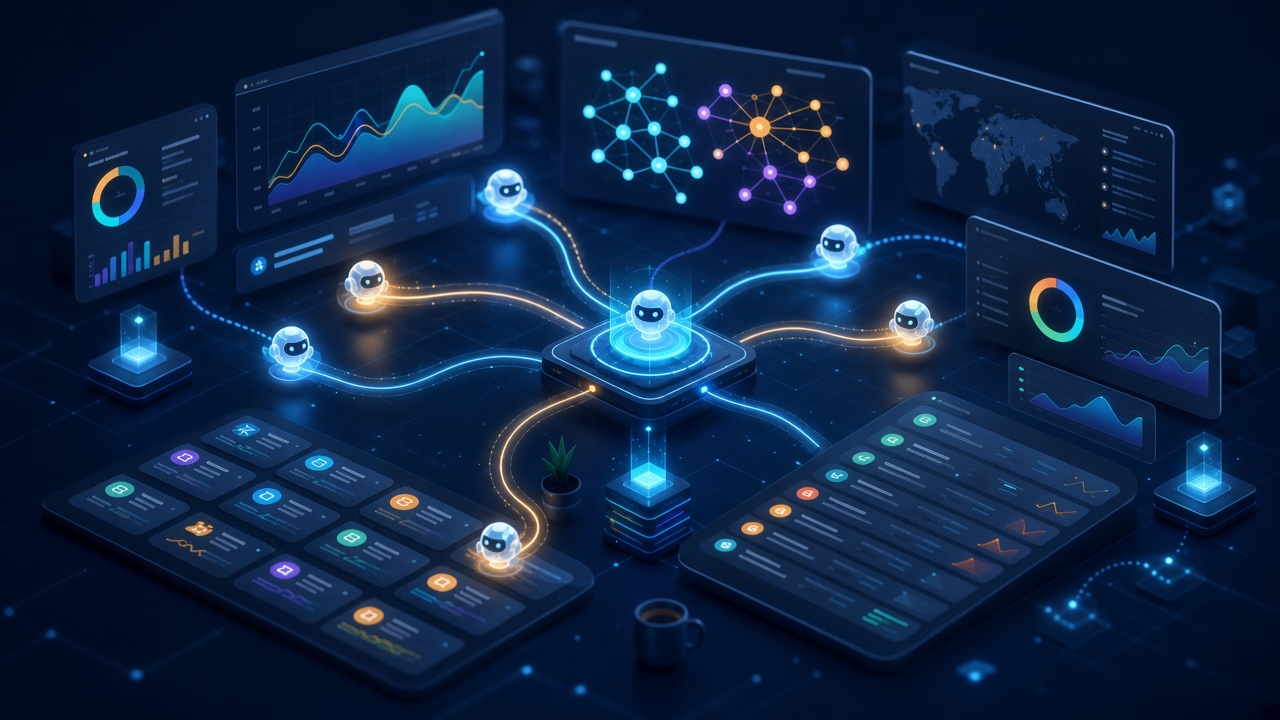
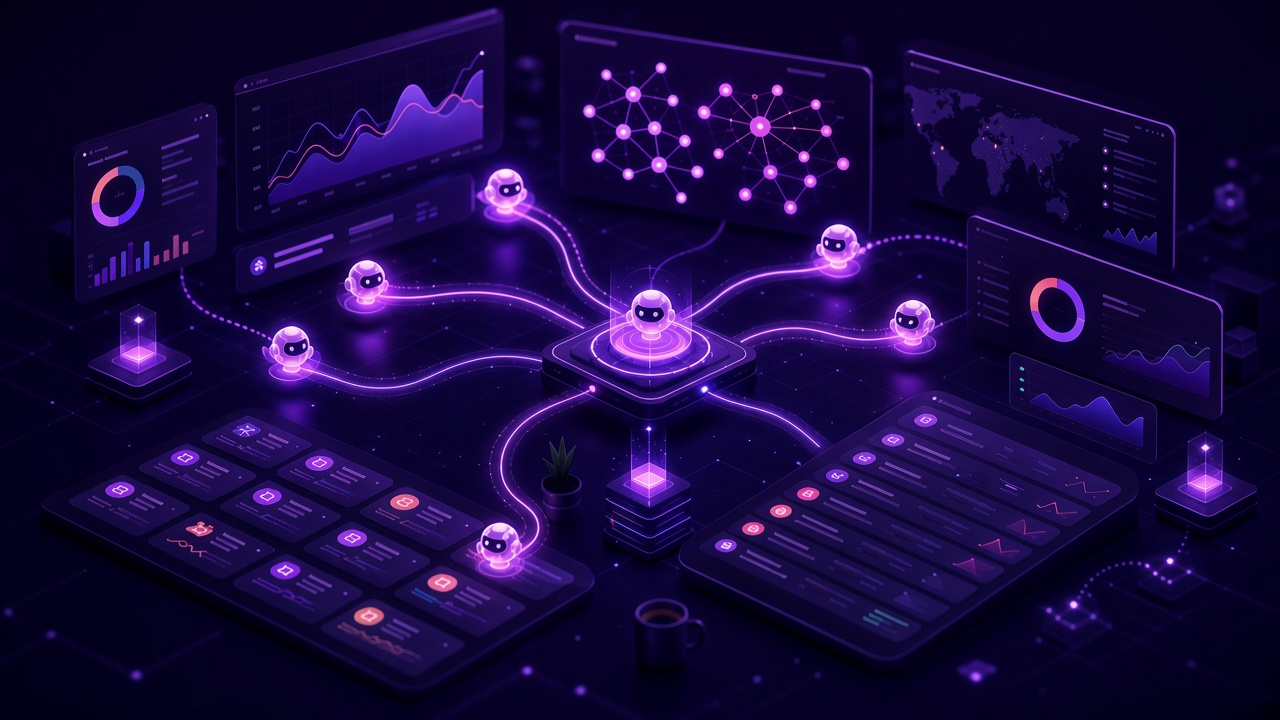
color corrected

diff --git a/index.html b/index.html
@@ -234,8 +234,8 @@
 </div>
 <!-- Right hero illustration: compact, framed, aligned to the right -->
 <div class="lg:col-span-6 flex justify-center lg:justify-end lg:self-start lg:-mt-4">
-<figure class="w-full max-w-[540px] sm:max-w-[580px] lg:max-w-none ml-auto rounded-2xl overflow-hidden border border-white/10 bg-[#0b1020] shadow-[0_18px_50px_-24px_rgba(8,12,28,0.9)]">
-<img alt="Isometric AI command center with a central robot hub linked to orbiting agents and glowing analytics panels" class="w-full h-auto block" src="assets/hero-ai-command-center.jpg"/>
+<figure class="w-full max-w-[540px] sm:max-w-[580px] lg:max-w-none ml-auto rounded-2xl overflow-hidden border border-purple-400/25 bg-[#070512] shadow-card-glow">
+<img alt="Isometric AI command center with a central robot hub linked to orbiting agents and glowing analytics panels" class="w-full h-auto block" src="assets/hero-ai-command-center.jpg?v=2"/>
 </figure>
 </div>
 </div>
